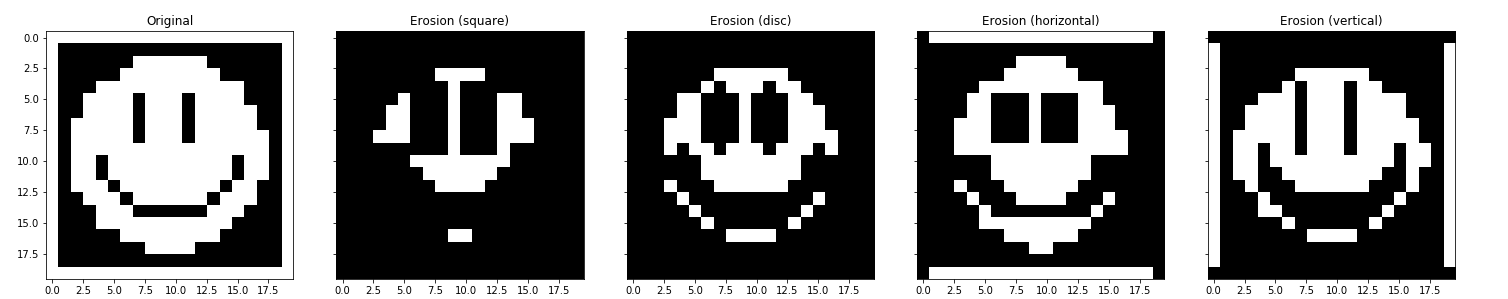
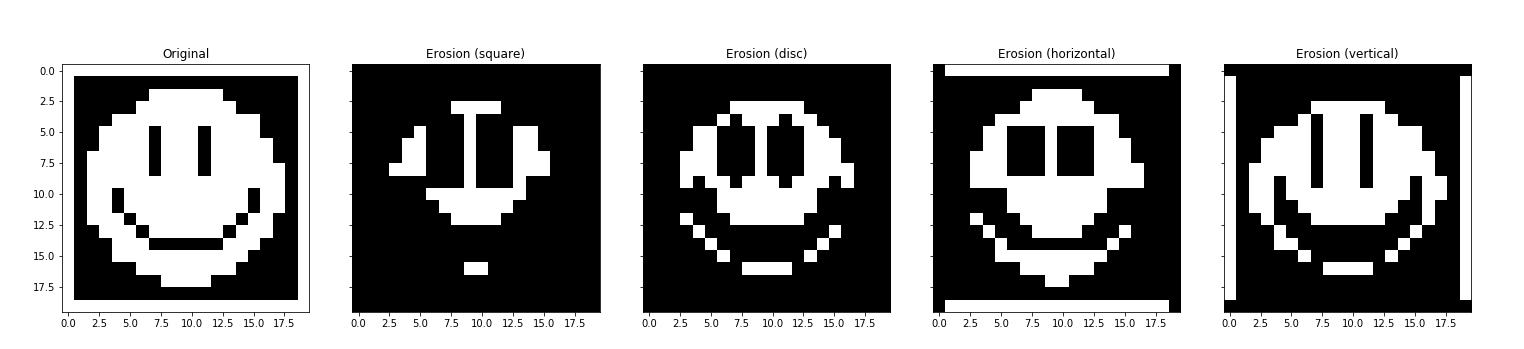
update README.md + fix grayscale processing

diff --git a/morph.py b/morph.py
@@ -29,7 +29,7 @@ class FilterManager():
         img = self.apply_threshold(img)
         centered_img = np.ones_like(img, dtype=np.int64)
         half_w, half_h = centered_img.shape[0]//2, centered_img.shape[1]//2
-        cr_img = self._crop_zero_values(img, True)
+        cr_img = self.crop_zero_values(img, True)
         cr_w, cr_h = cr_img.shape
         center_y = half_h - (cr_h // 2)
         center_x = half_w - (cr_w // 2)
@@ -51,7 +51,7 @@ class FilterManager():
         return np.equal(np.take(window, self.selem_white_idx),
                         np.take(self.selem, self.selem_white_idx)).all()
 
-    def _crop_zero_values(self, img, inverted=False):
+    def crop_zero_values(self, img, inverted=False):
         """Crop zero values from the image boundaries returning a new image without empty borders"""
         width, height = img.shape
         xmin, xmax = 0, width
@@ -72,8 +72,8 @@ class FilterManager():
         return img[xmin:xmax+1, ymin:ymax+1]
 
     def apply_filter(self, operator='er', img=None, n_iterations=1, as_gray=False):
-        """Applies a morphological operator to an image multiple times (n_iterations)"""
-
+        """Applies a morphological operator a certain number of times (n_iterations) to an image"""
+        
         if not as_gray:
             img = self.apply_threshold(img)
 
@@ -82,29 +82,31 @@ class FilterManager():
         pad_img_shape = (w + radius - 1, h + radius - 1)
 
         if operator == 'op':
-            return self._opening(img)
+            return self._opening(img, as_gray)
         if operator == 'cl':
-            return self._closing(img)
+            return self._closing(img, as_gray)
         if operator == 'ig':
-            return self._internal_gradient(img)
+            return self._internal_gradient(img, as_gray)
         if operator == 'eg':
-            return self._external_gradient(img)
+            return self._external_gradient(img, as_gray)
         if operator == 'mg':
-            return self._morphological_gradient(img)
+            return self._morphological_gradient(img, as_gray)
         if operator == 'wth':
-            return self._white_top_hat(img)
+            return self._white_top_hat(img, as_gray)
         if operator == 'bth':
-            return self._black_top_hat(img)
+            return self._black_top_hat(img, as_gray)
 
         if n_iterations >= 1:
 
-            pad_img = np.zeros(pad_img_shape).astype(np.int8)
-            pad_img[radius-2:(w + radius-2), radius-2:(h + radius-2)] = img
-            img_result = np.zeros(pad_img_shape).astype(np.int8)
+            pad_img = np.zeros(pad_img_shape).astype(np.float64)
+            pad_img[radius-2:(w + radius-2), radius-2:(h + radius-2)] = img            
+            img_result = np.zeros(pad_img_shape).astype(np.float64)
 
             for i in range(w):
                 for j in range(h):
                     neighbors = pad_img[i:i+radius, j:j+radius]
+                    if as_gray:
+                        neighbors = np.delete(neighbors.flatten(), radius+1)
                     if operator == 'er':
                         img_result[i+1, j+1] = self._erosion(neighbors, as_gray)
                     if operator == 'di':
@@ -137,32 +139,32 @@ class FilterManager():
         else:
             return np.max(neighbors)
 
-    def _opening(self, img):
+    def _opening(self, img, as_gray):
         """Applies the opening operation"""
-        return self.apply_filter('di', self.apply_filter('er', img))
+        return self.apply_filter('di', self.apply_filter('er', img, as_gray=as_gray), as_gray=as_gray)
 
-    def _closing(self, img):
+    def _closing(self, img, as_gray):
         """Applies the closing operation"""
-        return self.apply_filter('er', self.apply_filter('di', img))
+        return self.apply_filter('er', self.apply_filter('di', img, as_gray=as_gray), as_gray=as_gray)
 
-    def _internal_gradient(self, img):
+    def _internal_gradient(self, img, as_gray):
         """Applies the internal gradient operation"""
-        return img - self.apply_filter('er', img)
+        return img - self.apply_filter('er', img, as_gray=as_gray)
 
-    def _external_gradient(self, img):
+    def _external_gradient(self, img, as_gray):
         """Applies the external gradient operation"""
-        return self.apply_filter('di', img) - img
+        return self.apply_filter('di', img, as_gray=as_gray) - img
 
-    def _morphological_gradient(self, img):
+    def _morphological_gradient(self, img, as_gray):
         """Applies the morphological gradient operation"""
-        return self.apply_filter('di', img) - self.apply_filter('er', img)
+        return self.apply_filter('di', img, as_gray=as_gray) - self.apply_filter('er', img, as_gray=as_gray)
 
-    def _white_top_hat(self, img):
+    def _white_top_hat(self, img, as_gray):
         """Applies the white top-hat operation"""
-        return self.apply_filter('op', img) - img
+        return self.apply_filter('op', img, as_gray=as_gray) - img
 
-    def _black_top_hat(self, img):
+    def _black_top_hat(self, img, as_gray):
         """Applies the black top-hat operation"""
-        bth = self.apply_filter('cl', img) - img
+        bth = self.apply_filter('cl', img, as_gray=as_gray) - img
         bth[bth == -1] = 1
         return bth

diff --git a/README.md b/README.md
@@ -28,7 +28,6 @@ plt.imshow(eroded_img)
 Structuring elements:
 ![](selem-types.png)
 
-
 Different filters applied to the original image:
 ![](filters.png)
 
@@ -41,6 +40,8 @@ Different structuring element types (3x3)
 Different structuring element sizes
 ![](filters-multiple-selem-sizes.png)
 
+Applying grayscale filters
+![](filters-grayscale.png)
 
 ##### To Do
 
